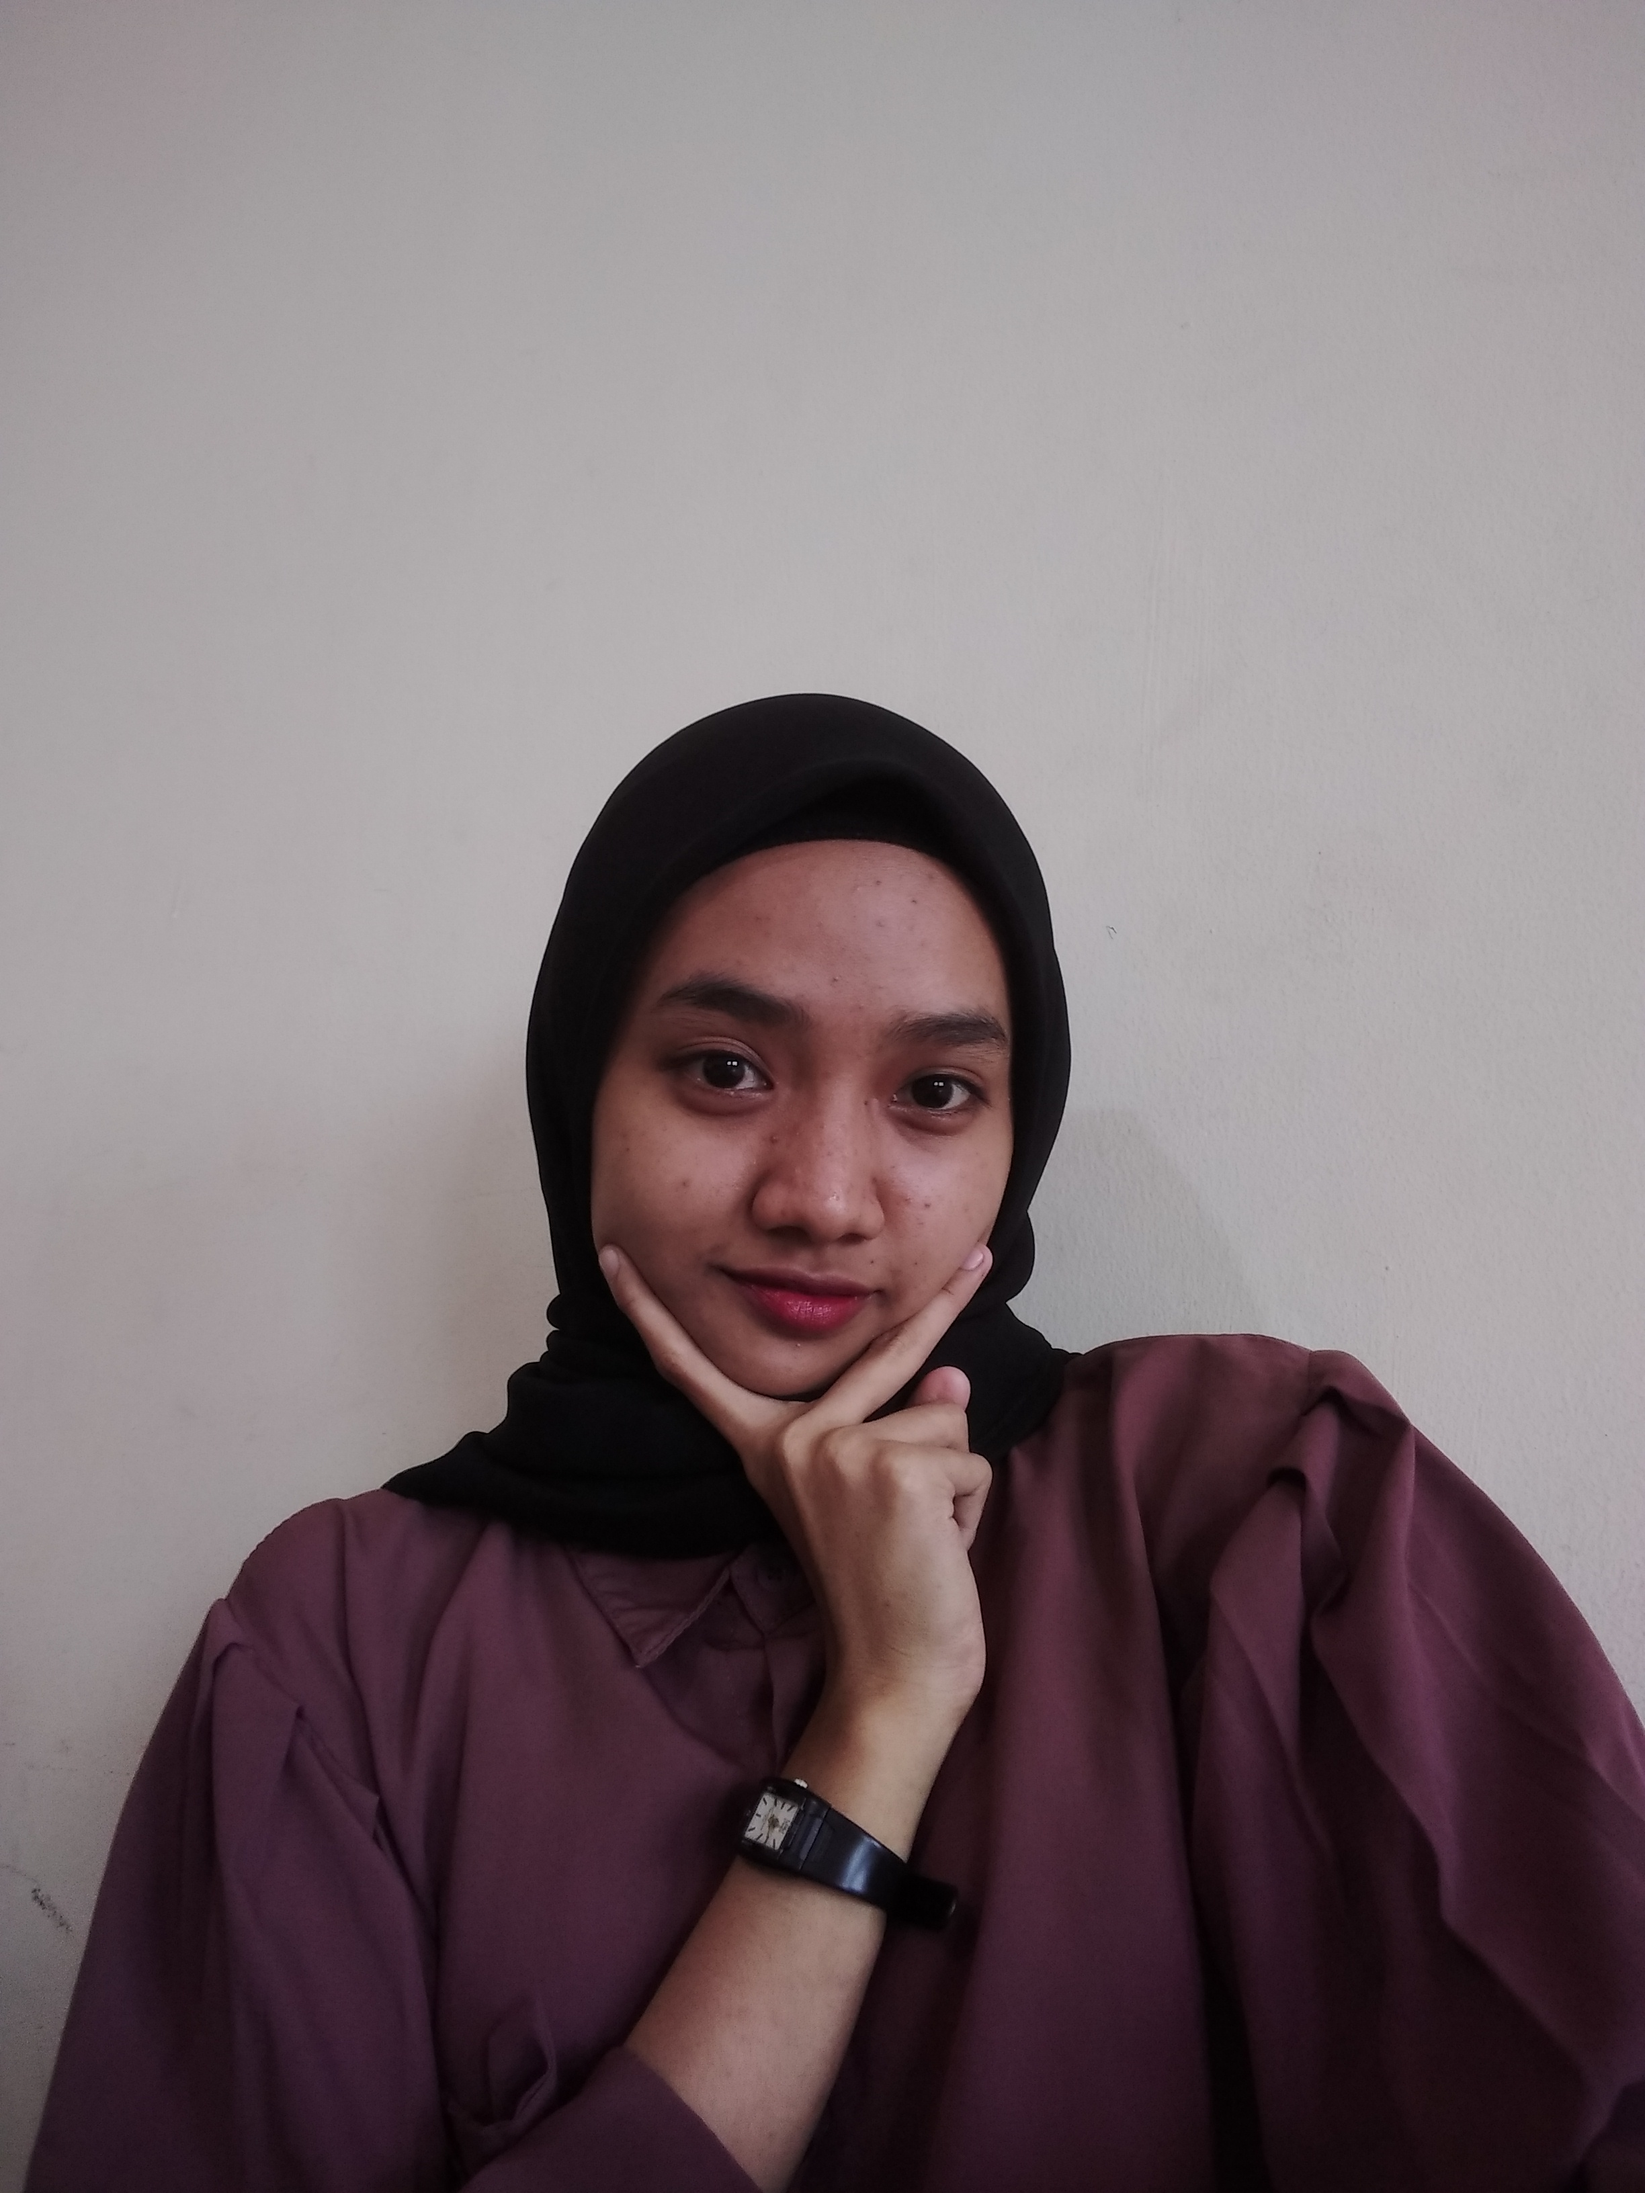
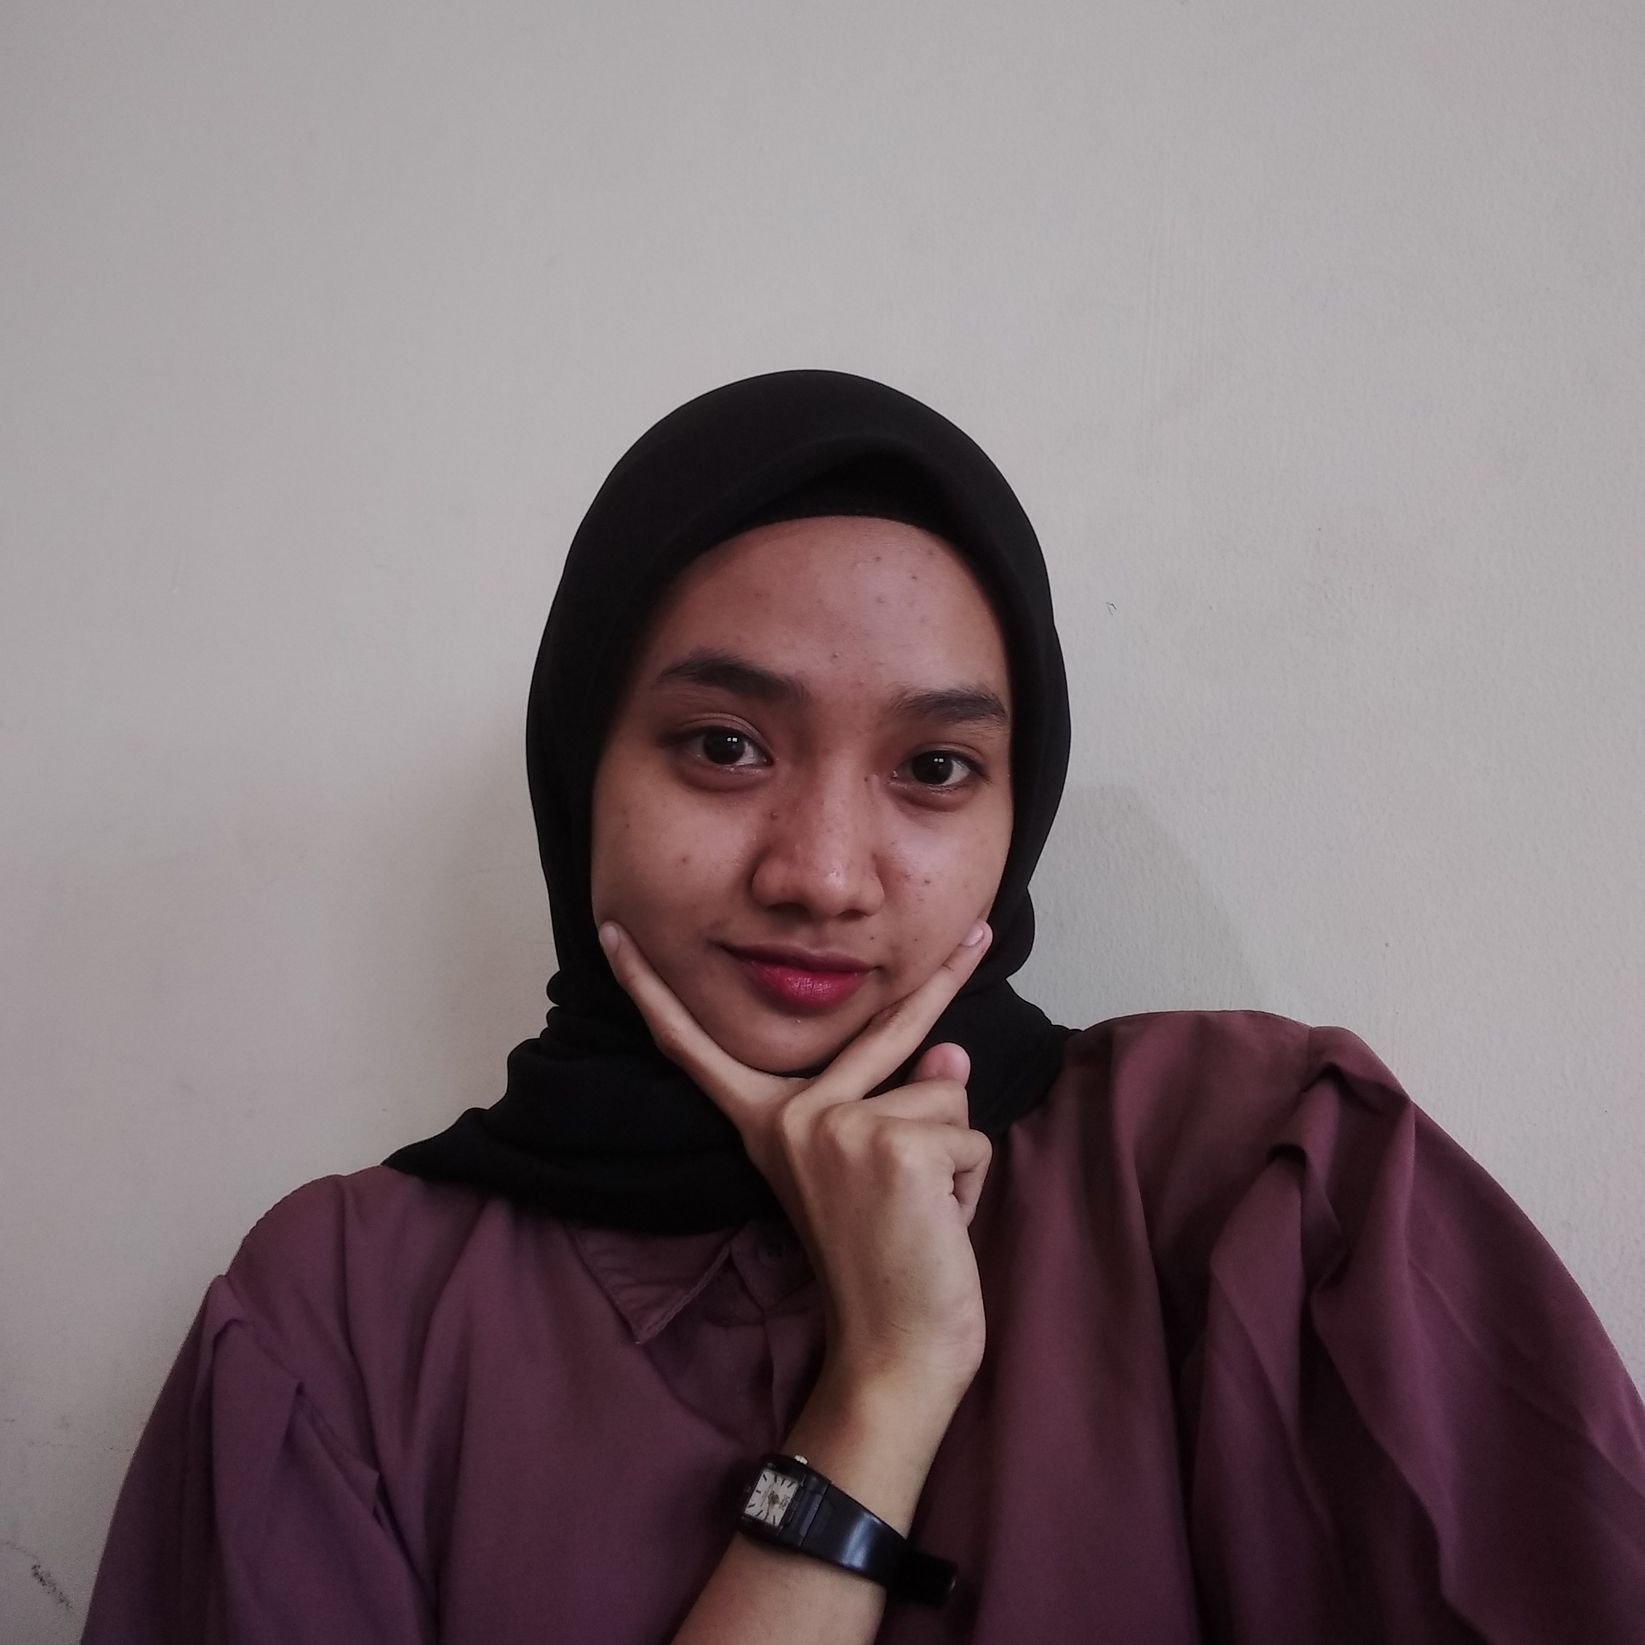
tambah

diff --git a/Latihan.html b/Latihan.html
@@ -3,6 +3,7 @@
 <head>
     <meta charset="UTF-8">
     <meta name="viewport" content="width=device-width, initial-scale=1.0">
+    <link rel="stylesheet" href="https://unpkg.com/aos@next/dist/aos.css" />
     <link rel="preconnect" href="https://fonts.googleapis.com">
     <link rel="preconnect" href="https://fonts.gstatic.com" crossorigin>
     <link href="https://fonts.googleapis.com/css2?family=Oswald:wght@200;300;400;500;600;700&display=swap" rel="stylesheet">
@@ -12,7 +13,7 @@
 <body>
 
     <nav>
-        <div class="Logo">Karina Aliya Farmawati</div>
+        <div class="Logo">Karina Aliya Fatmawati</div>
         <div class="Wrap-Menu">
             <div class="Menu">Beranda</div>
             <div class="Menu">Portofolio</div>
@@ -21,19 +22,59 @@
     </nav>
 
     <section class="My-informasion">
-        <div class="Informasion">
+        <div class="Informasion" data-aos="fade-right" data-aos-duration="10000">
             <h3>Salam kenal Semua...</h3>
             <h1>Karina Aliya Fatmawati</h1>
             <p>Seorang mahasiswa semester 6<br>
                 Universitas Pamulang jurusan Manajemen<br>
-                Saat ini sedang mengikuti Studi Independen di Revou
+                Saat ini sedang mengikuti Studi Independen di Revou<br>
             </p>
             <a href="#">Download CV</a>
         </div>
-        <div class="Images">
+        <div class="Images" data-aos="fade-left" data-aos-duration="10000">
             <img src="Asset/IMG20230619113802.jpg" alt="Karina">
         </div>
     </section>
+
+    <main>
+        <div class="Text-Portofolio" >
+            <h1>Portofolio</h1>
+            <p>Berikut hasil kerja selama ini</p>
+        </div>
+        <div class="Images-Portofolio">
+            <div class="Group-1">
+                <img src="Asset/IMG20230605161312.jpg" alt="Photo">
+                <img src="Asset/IMG20230801205507.jpg" alt="Photo">
+                <img src="Asset/IMG20230625063406.jpg" alt="Photo">
+            </div>
+            <div class="Group-2">
+                <img src="Asset//IMG20230618061533.jpg" alt="Photo">
+                <img src="Asset/IMG20230528114230.jpg" alt="Photo">
+                <img src="Asset/IMG20230701064131.jpg" alt="Photo">
+            </div>
+        </div>
+    </main>
+
+    <form>
+        <h1>Kontak</h1>
+        <p>Hubungi saya jika anda tertarik berkolaborasi dengan saya</p>
+        <div>
+            <label>Nama:</label>
+            <input type="text" placeholder="Ketik Nama Anda">
+            <label>Emai:</label>
+            <input type="text" placeholder="Ketik Emai Anda">
+        </div>
+        <div>
+            <label>Pesan Anda</label>
+            <input type="text" placeholder="Ketik Pesan Anda">
+        </div>
+        <button>Kirim Pesan</button>
+    </form>
+
     
+    <script src="https://unpkg.com/aos@next/dist/aos.js"></script>
+    <script>
+      AOS.init();
+    </script>
 </body>
 </html>

diff --git a/CSS/Style.css b/CSS/Style.css
@@ -5,8 +5,9 @@
 }
 
 body {
-    width: 100%;
-    overflow: hidden;
+    width: 1600px;
+    height: 2800px;
+    background-color: #FFDBC3;
 }
 
 nav {
@@ -39,3 +40,95 @@ nav {
     font-weight: 500;
 }
 
+.My-informasion {
+    display: flex;
+    justify-content: space-between;
+    background-color: #5C4B99;
+    height: 620px;
+    padding: 0px 120px;
+    align-items: center;
+}
+.Informasion h3 {
+    font-size: 20px;
+    font-weight: 500;
+    font-style: italic;
+}
+
+.Informasion h1 {
+    font-size: 40px;
+    font-weight: 600;
+    margin-bottom: 16px;
+}
+
+.Informasion p{
+    font-size: 20px;
+    font-weight: 400;
+    margin-bottom: 16px;
+}
+
+.Informasion a{
+    background-color: #FFF;
+    border-radius: 12px;
+    color: #3D246C;
+    text-decoration: none;
+    padding: 8px 32px;
+    margin-bottom: 16px;
+}
+
+.Images {
+    width: 360px;
+    height: 360px;
+}
+
+.Images img {
+    width: 100%;
+    height: 100%;
+    border-radius: 16px;
+}
+
+main {
+    text-align: center;
+}
+
+.Text-Portofolio {
+    padding: 80px 480px;
+}
+
+.Text-Portofolio h1 {
+    font-size: 40px;
+    font-weight: 700;
+}
+
+.Text-Portofolio p{
+    font-size: 20px;
+    font-weight: 400;
+}
+
+.Images-Portofolio {
+    padding: 0px 170px;
+    border-radius: 20px;
+}
+
+.Images-Portofolio img {
+    border-radius: 20px;
+}
+
+.Group-1 {
+    display: flex;
+    flex-direction: row;
+    justify-content: space-between;
+    height: 320px;
+    margin-bottom: 60px;
+}
+
+.Group-2 {
+    display: flex;
+    flex-direction: row;
+    justify-content: space-between;
+    height: 320px;
+    margin-bottom: 60px;
+}
+
+form {
+    background-color: #5C4B99;
+}
